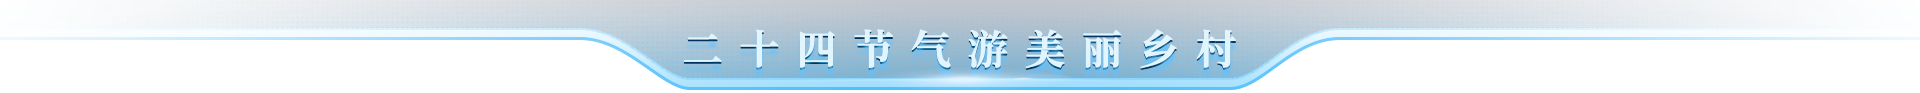
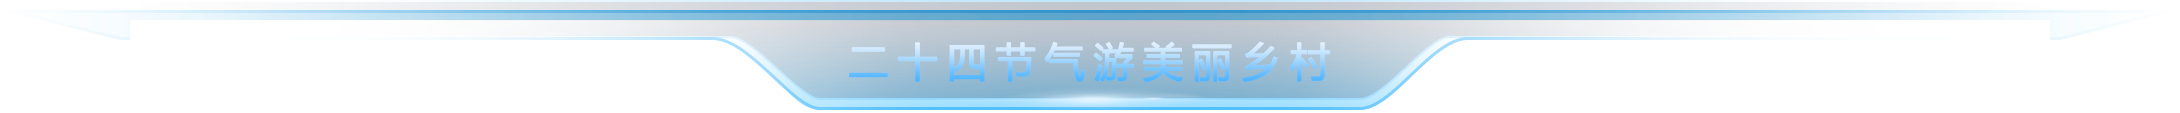
1.根据最新要求修改驾驶舱典型应用、农家乐经营一件事等部分

Changed region(s): [[0.0312, 0.086, 1.0, 0.9892], [0.2188, 0.0, 0.7812, 0.0215]]

diff --git a/src/views/components/right/components/AgritainmentManagement.vue b/src/views/components/right/components/AgritainmentManagement.vue
@@ -108,10 +108,10 @@ export default {
       };
       getFarmhouseManagement(data).then((res) => {
         // let level = 1; // 根据level判断单位
-        const unit = ["万家", "万人", "亿元", "万户"];
+        const unit = ["家", "万人", "亿元", "万户"];
         this.bedNumber = res.query2.bedNum;
         this.mealNumber = res.query2.mealsNum;
-        this.dataList[0].number = this._normalizeData(res.query1);
+        this.dataList[0].number = res.query1;
         this.dataList[1].number = this._normalizeData(res.query2.engagedNum);
         this.dataList[2].number = this._normalizeData(
           Number(Number(res.query2.revenue).toFixed(0))

diff --git a/src/components/AppTitle.vue b/src/components/AppTitle.vue
@@ -1,6 +1,6 @@
 <template>
   <div class="AppTitle-root">
-    <img src="../assets/img/title_03.png" @click="goHome"/>
+    <img src="../assets/img/top_title.png" @click="goHome"/>
     <div class="left-button" @click="goPage"></div>
     <div class="right-button" @click="goPage2"></div>
   </div>

diff --git a/src/views/index.vue b/src/views/index.vue
@@ -4,7 +4,7 @@
     <left :areaId="areaId"></left>
     <right :areaId="areaId"></right>
     <Map @map-change="mapChange"></Map>
-    <app-bottom/>
+    <app-bottom v-if="false"/>
   </div>
 </template>
 
